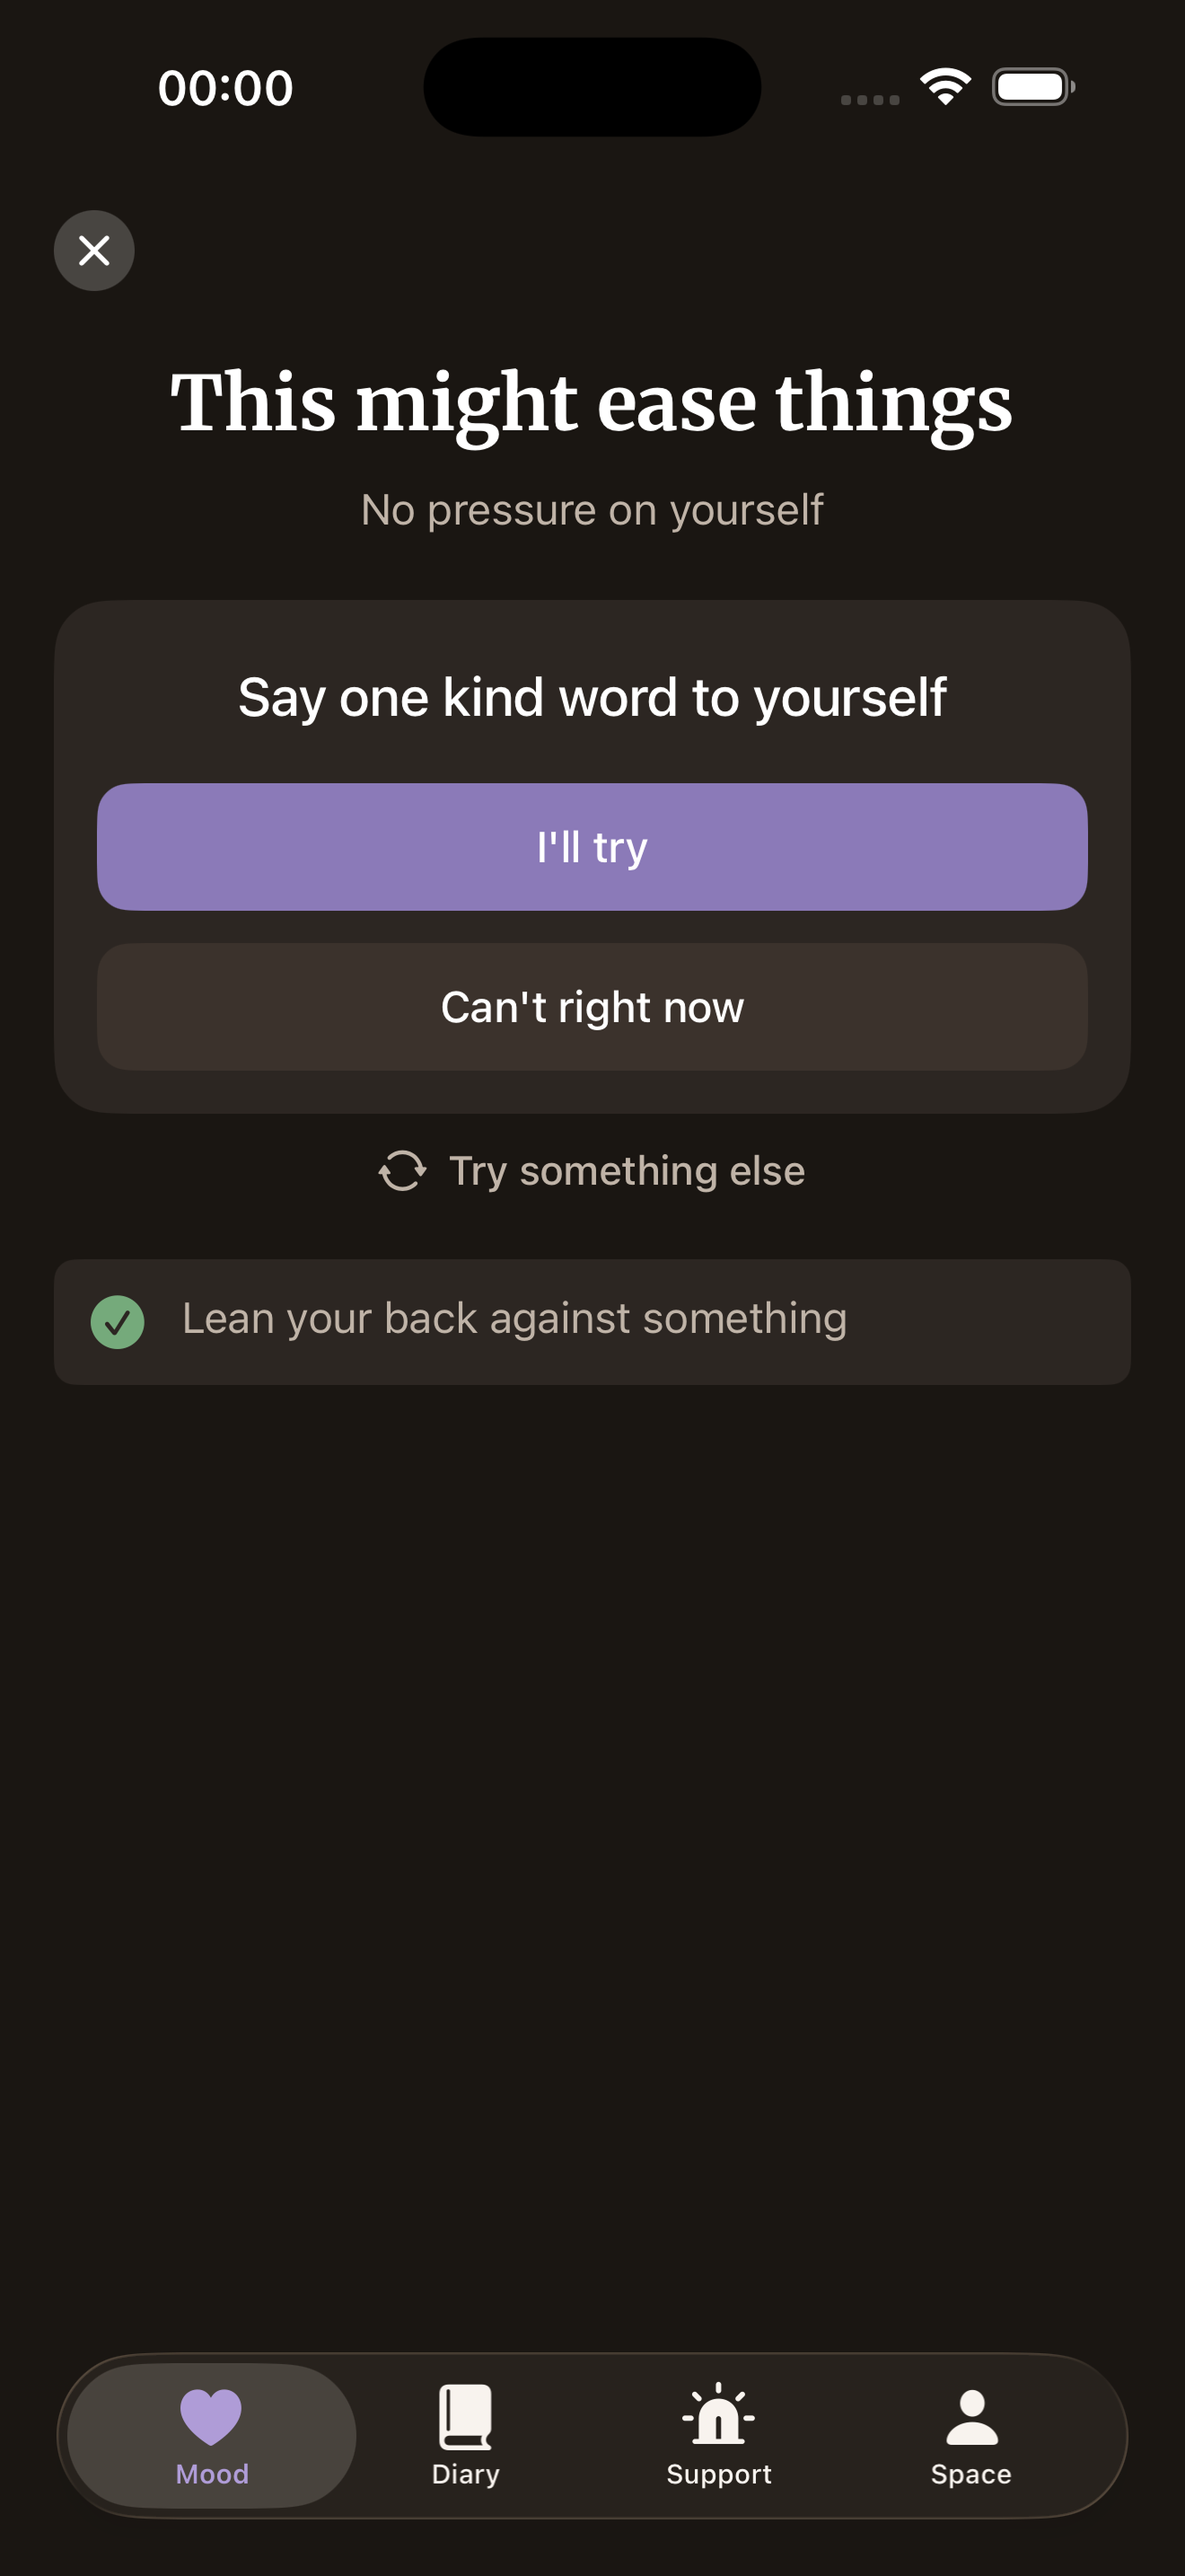
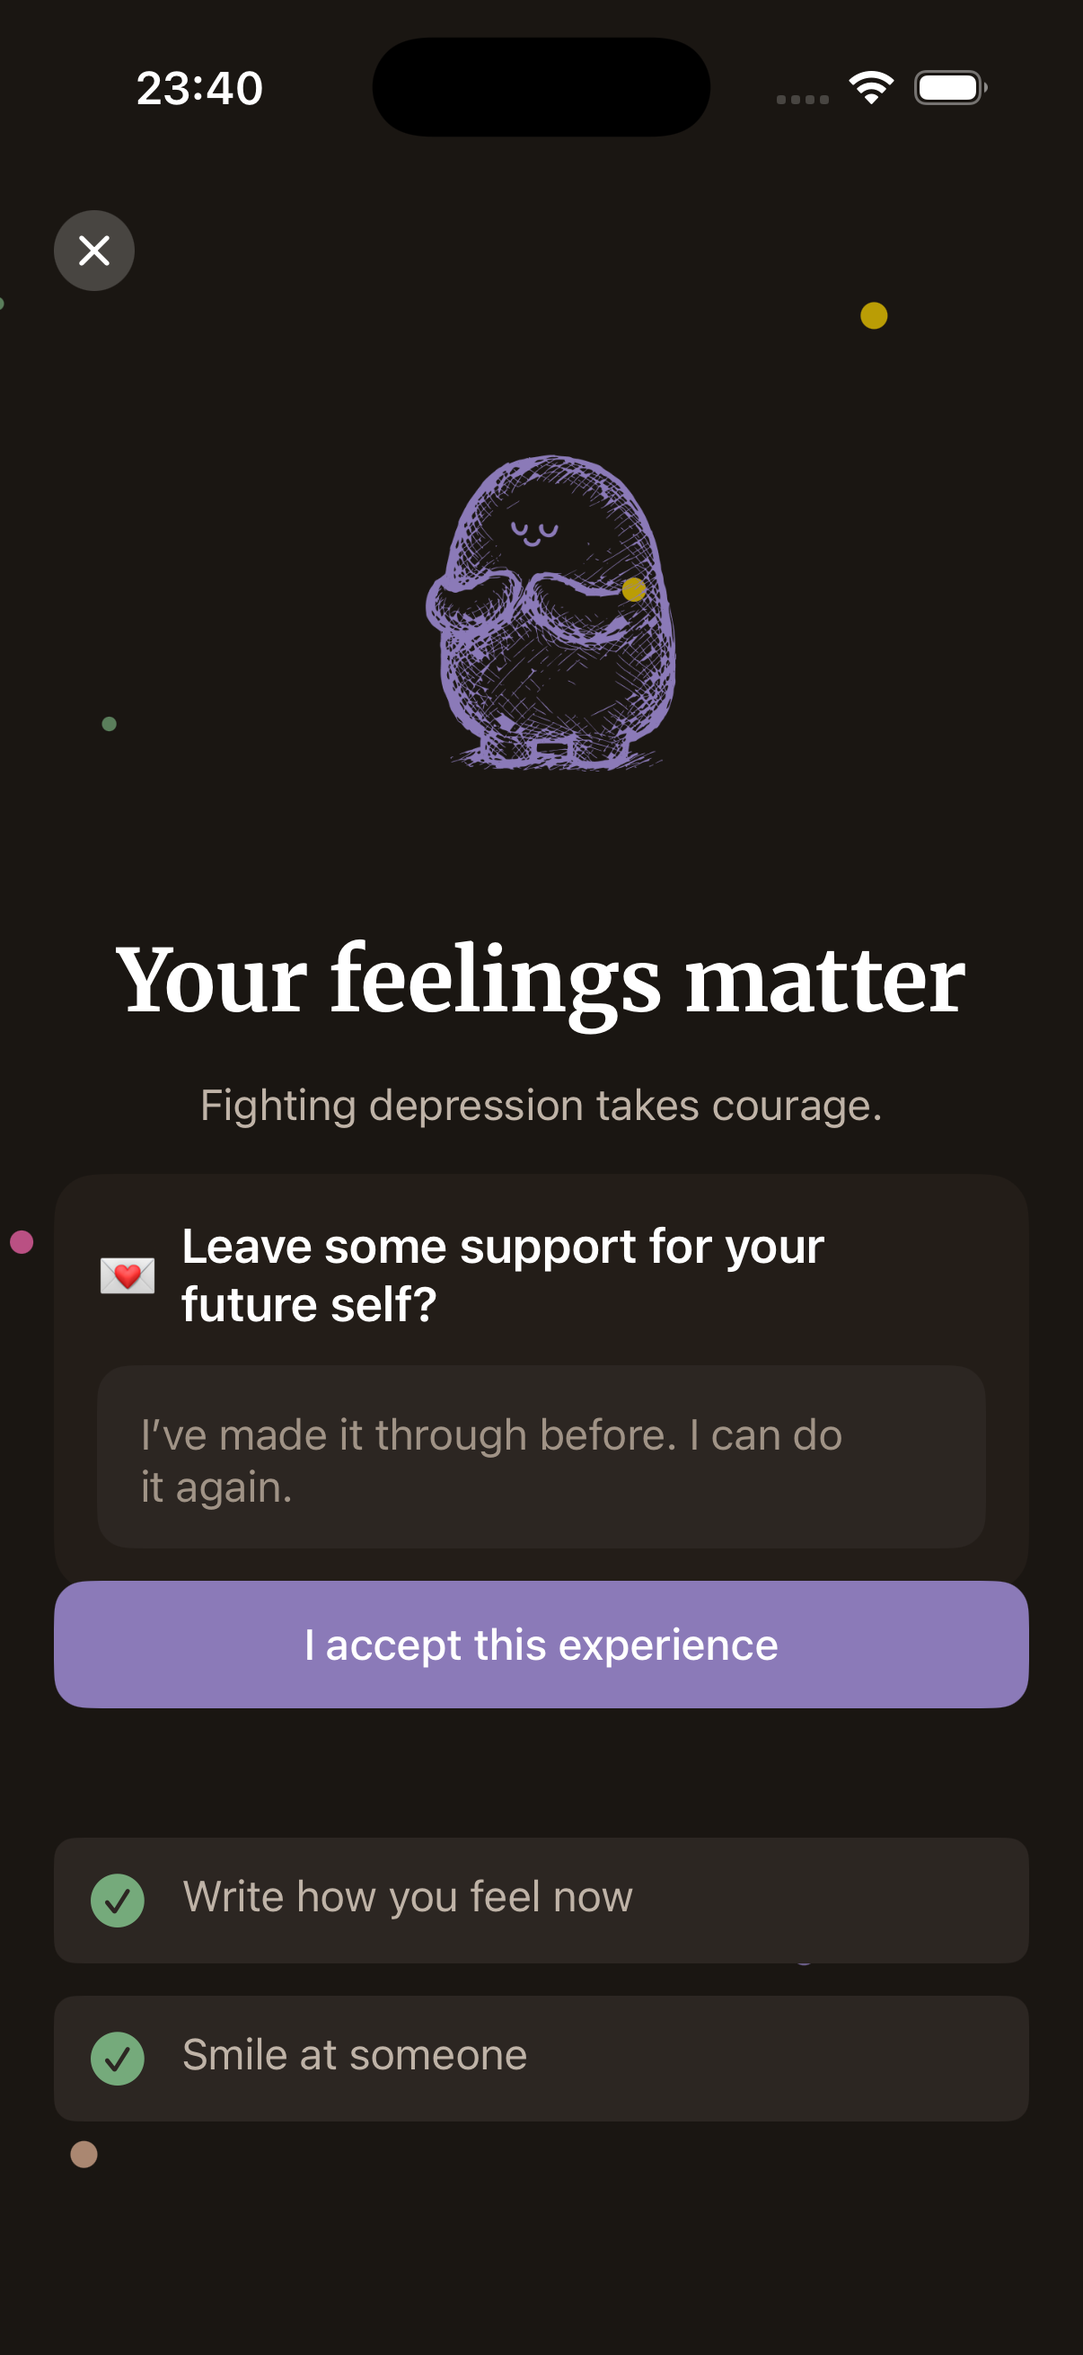
Update Completion & Reflection screenshots
- Replace dark-1-mood-1-1 with dark-1-mood-2 in HTML
- Update light-1-mood-1-1.png and dark-1-mood-2.png assets

diff --git a/case-stillspace.html b/case-stillspace.html
@@ -395,7 +395,7 @@
   <p>Every completed action is a small victory. Confetti, encouragement, and a prompt to leave a supportive note for your future self — an "anchor" to hold onto during harder days.</p>
   <div class="screens-row">
     <div class="phone-mockup" style="width:320px"><img src="images/stillspace/light-1-mood-1-1.png" alt="Completion screen — light theme" loading="lazy"></div>
-    <div class="phone-mockup" style="width:320px"><img src="images/stillspace/dark-1-mood-1-1.png" alt="Completion screen — dark theme" loading="lazy"></div>
+    <div class="phone-mockup" style="width:320px"><img src="images/stillspace/dark-1-mood-2.png" alt="Completion screen — dark theme" loading="lazy"></div>
   </div>
 
   <h3>Just Be Together</h3>
